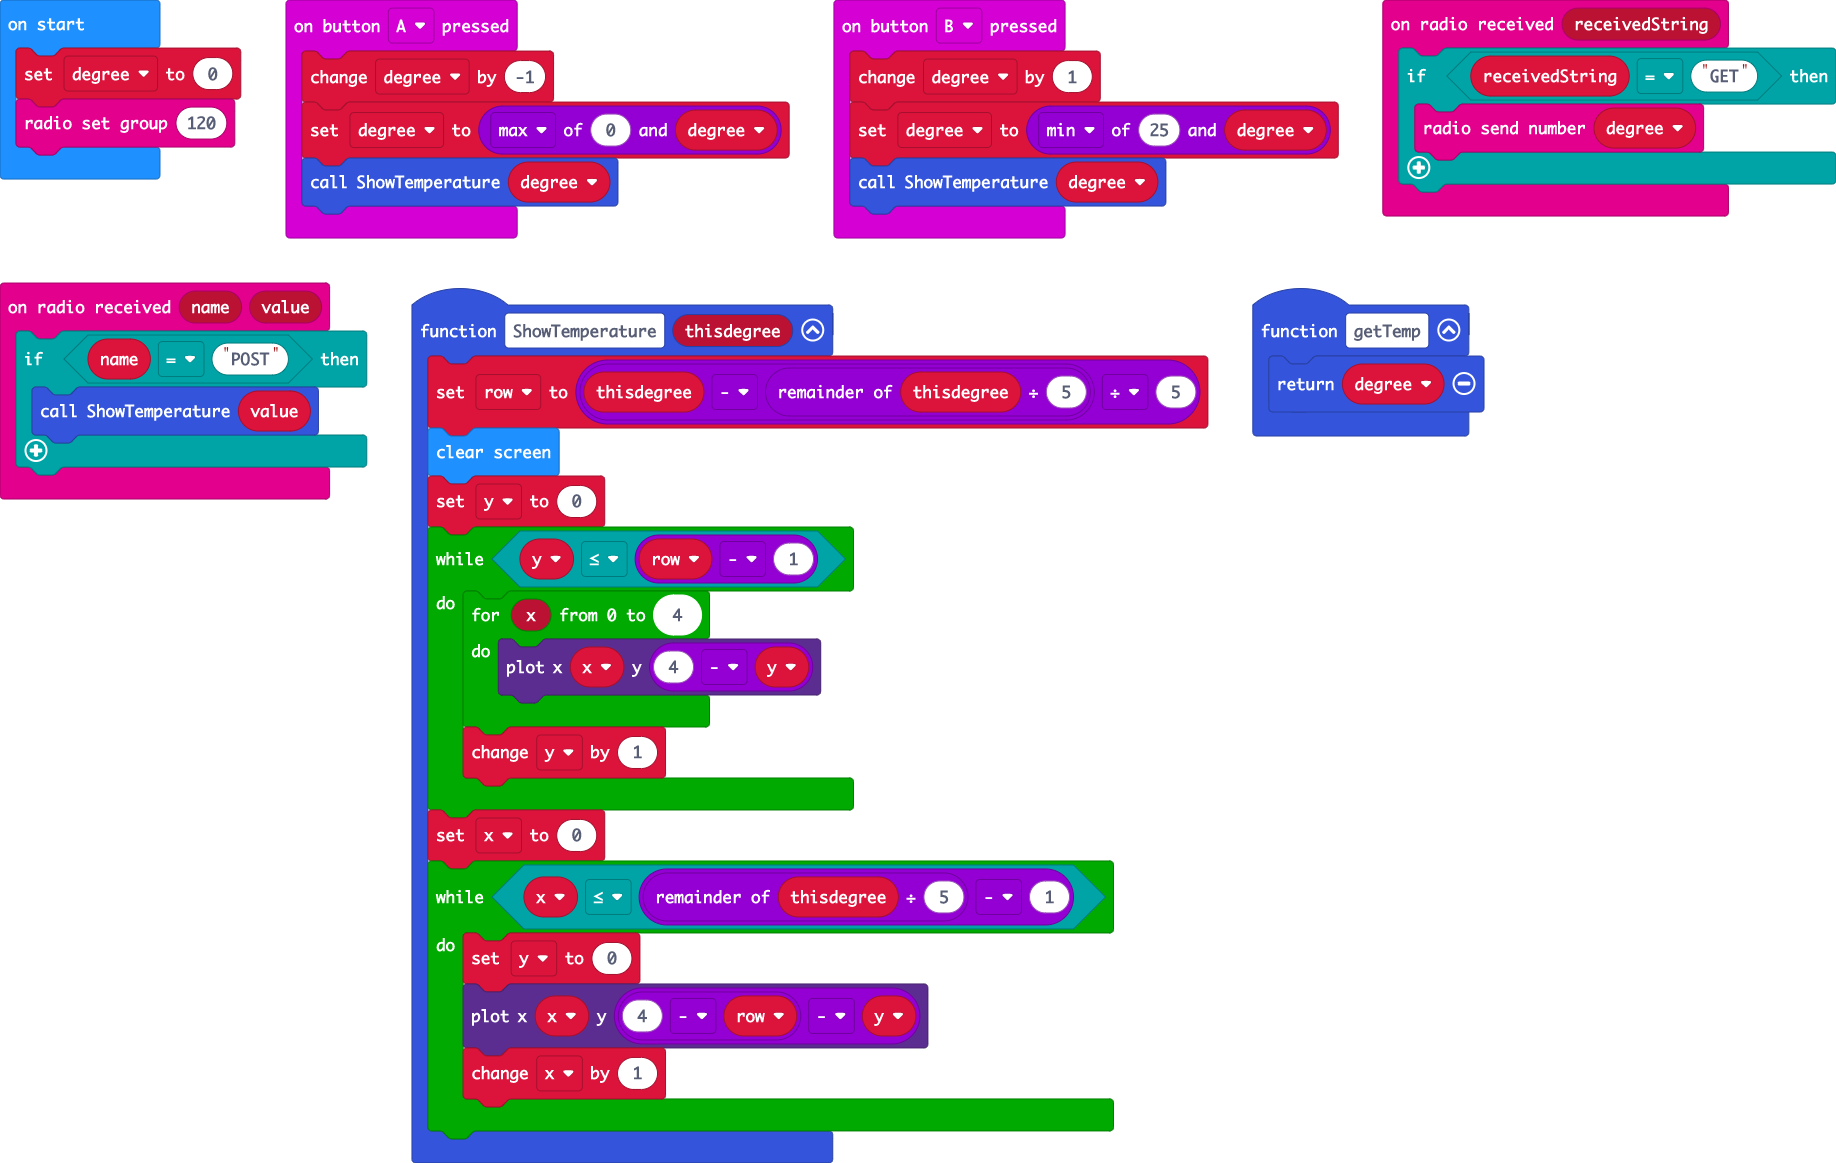
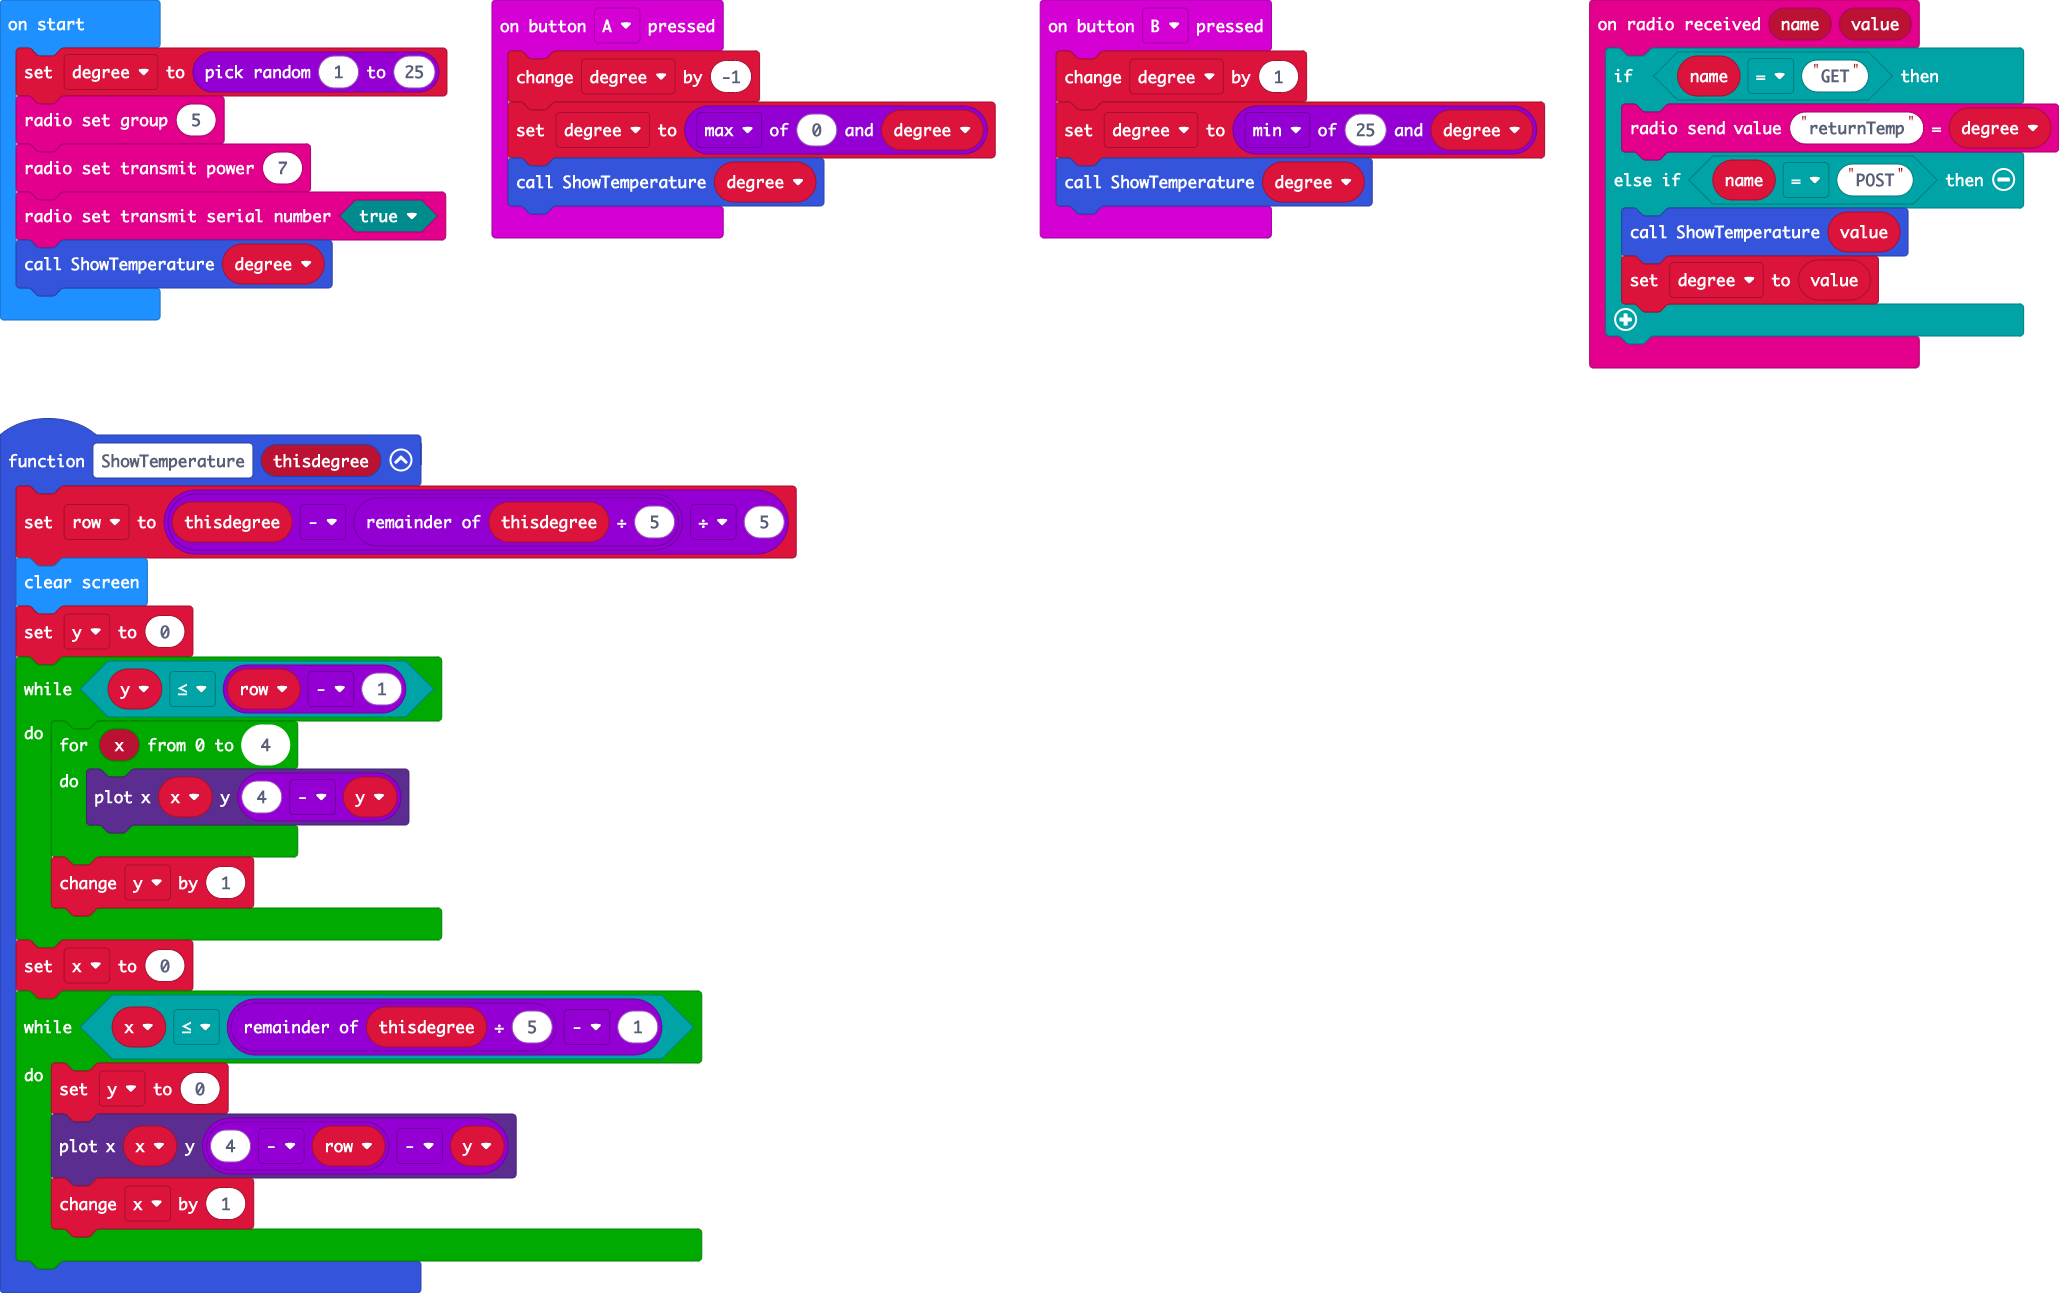
Update main.blocks, main.ts

diff --git a/main.ts b/main.ts
@@ -3,11 +3,6 @@ input.onButtonPressed(Button.A, function () {
     degree = Math.max(0, degree)
     ShowTemperature(degree)
 })
-radio.onReceivedString(function (receivedString) {
-    if (receivedString == "GET") {
-        radio.sendNumber(degree)
-    }
-})
 input.onButtonPressed(Button.B, function () {
     degree += 1
     degree = Math.min(25, degree)
@@ -31,16 +26,19 @@ function ShowTemperature (thisdegree: number) {
     }
 }
 radio.onReceivedValue(function (name, value) {
-    if (name == "POST") {
+    if (name == "GET") {
+        radio.sendValue("returnTemp", degree)
+    } else if (name == "POST") {
         ShowTemperature(value)
+        degree = value
     }
 })
-function getTemp () {
-    return degree
-}
 let x = 0
 let y = 0
 let row = 0
 let degree = 0
-degree = 0
-radio.setGroup(120)
+degree = randint(1, 25)
+radio.setGroup(5)
+radio.setTransmitPower(7)
+radio.setTransmitSerialNumber(true)
+ShowTemperature(degree)
